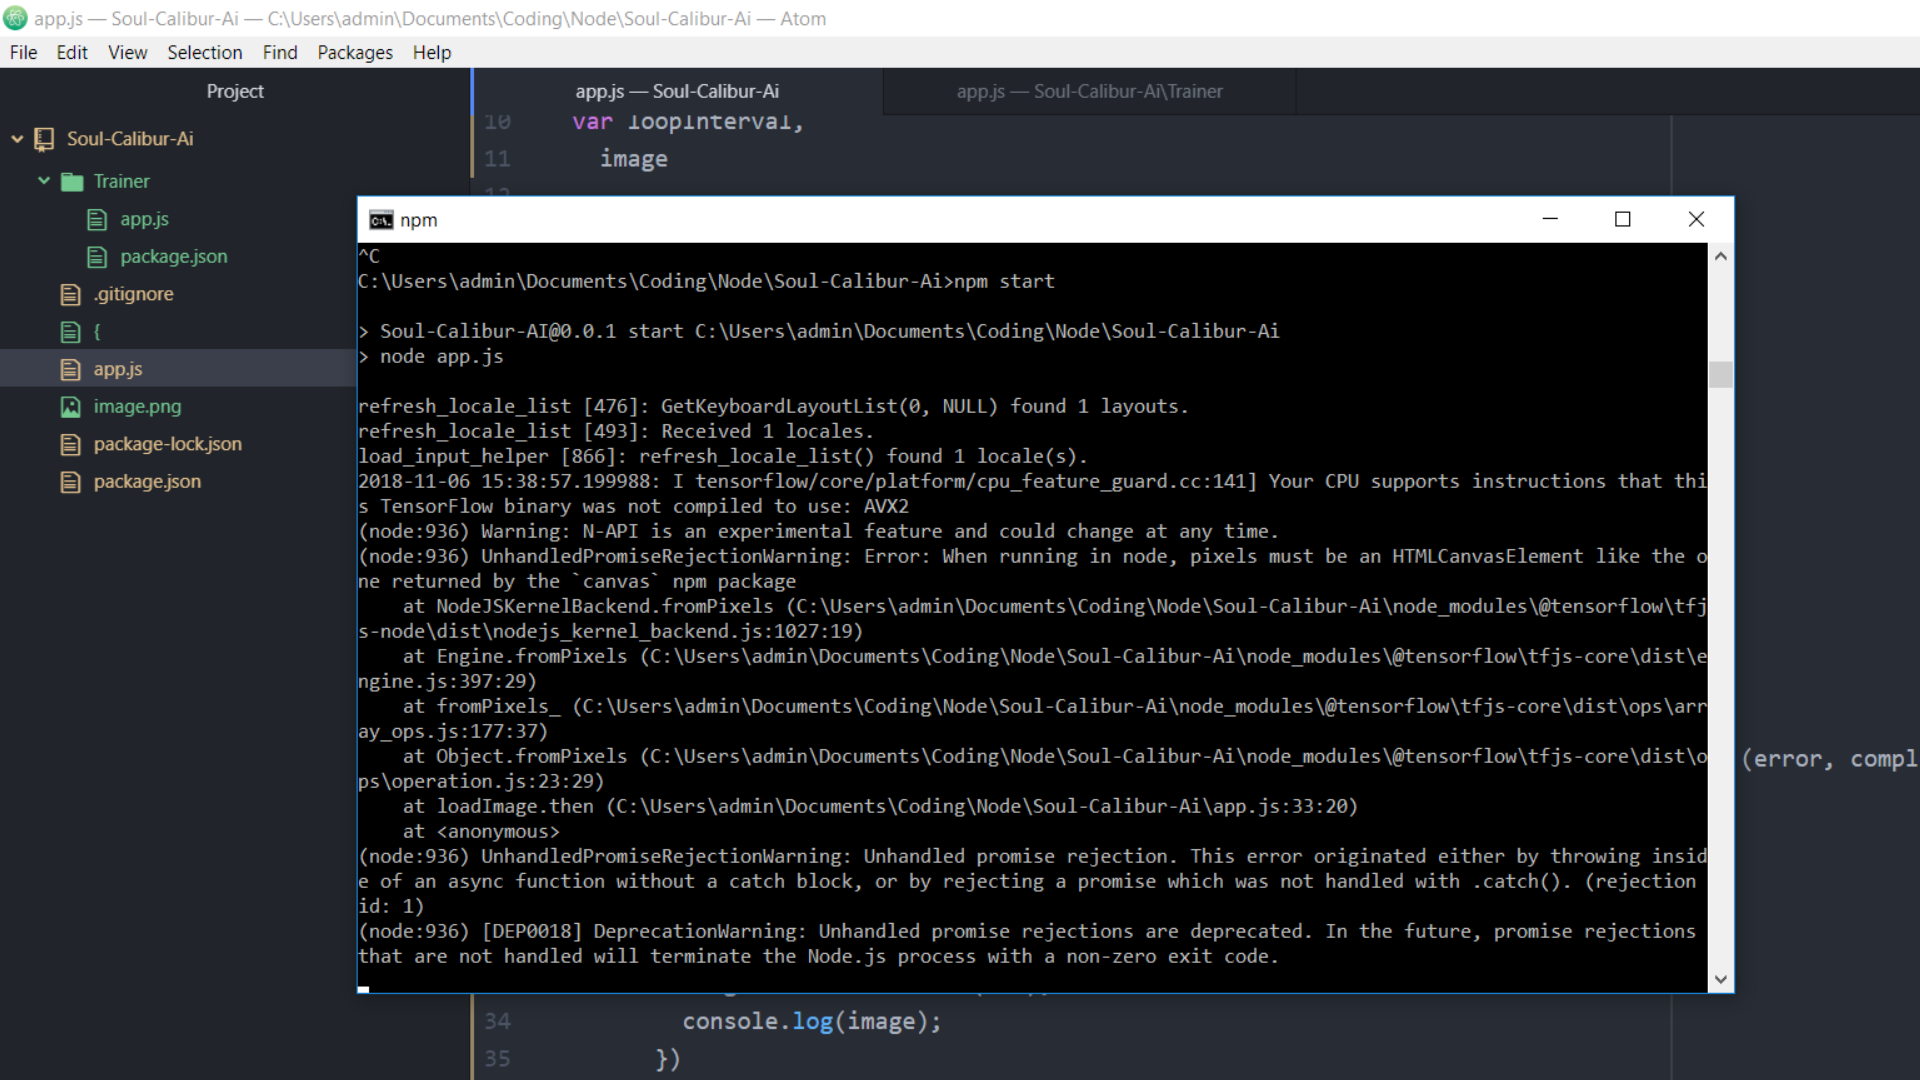
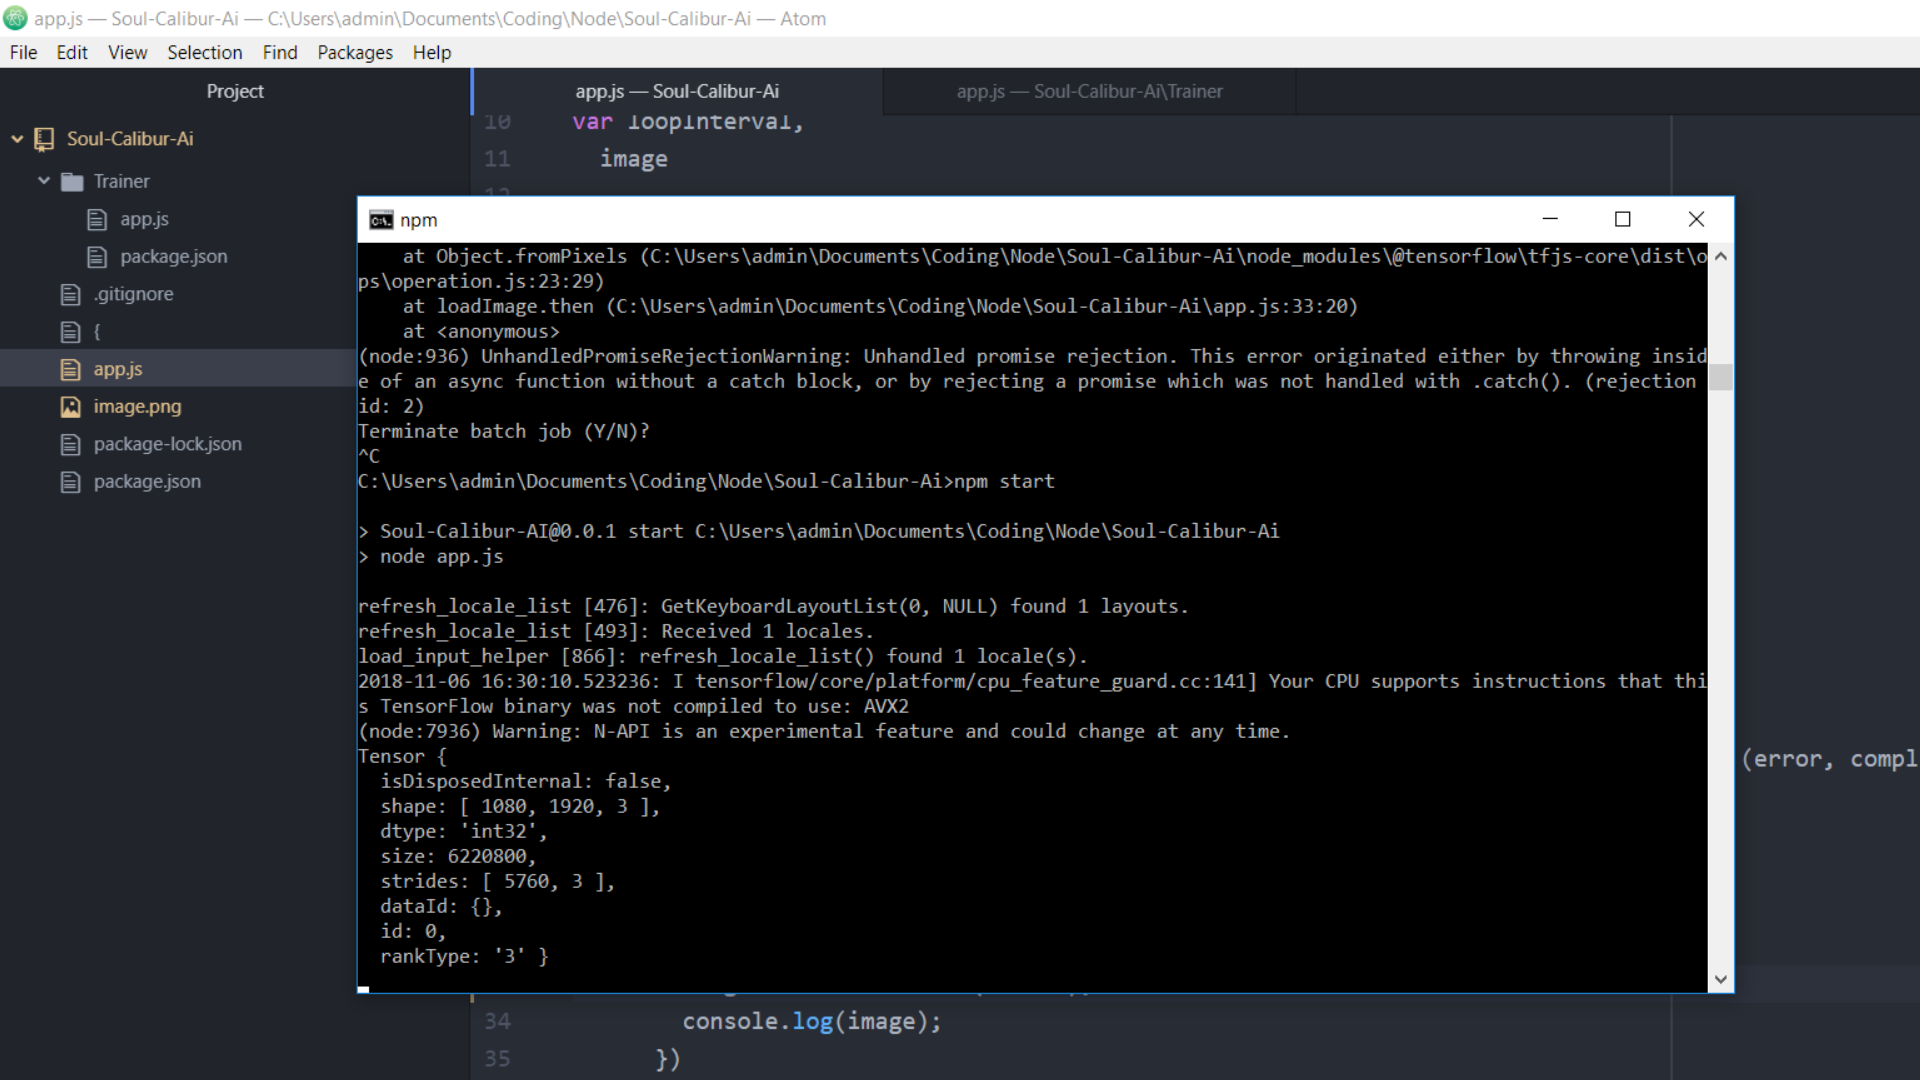
updates

diff --git a/app.js b/app.js
@@ -8,7 +8,8 @@ const ctx = canvas.getContext('2d')
 var dir = __dirname
 var paused = true
 var loopInterval,
-  image
+  image,
+  result
 
 ioHook.on('keyup', event => {
   if (event.keycode === 88) {
@@ -30,8 +31,8 @@ function gameLoop () {
     } else {
       loadImage(dir + '\\image.png').then((screen) => {
         ctx.drawImage(screen, 50, 0, 70, 70)
-        image = tf.fromPixels(ctx);
-        console.log(image);
+        image = tf.fromPixels(canvas);
+        result = model.predict(image, {batchSize: 4});
       })
     }
   })
